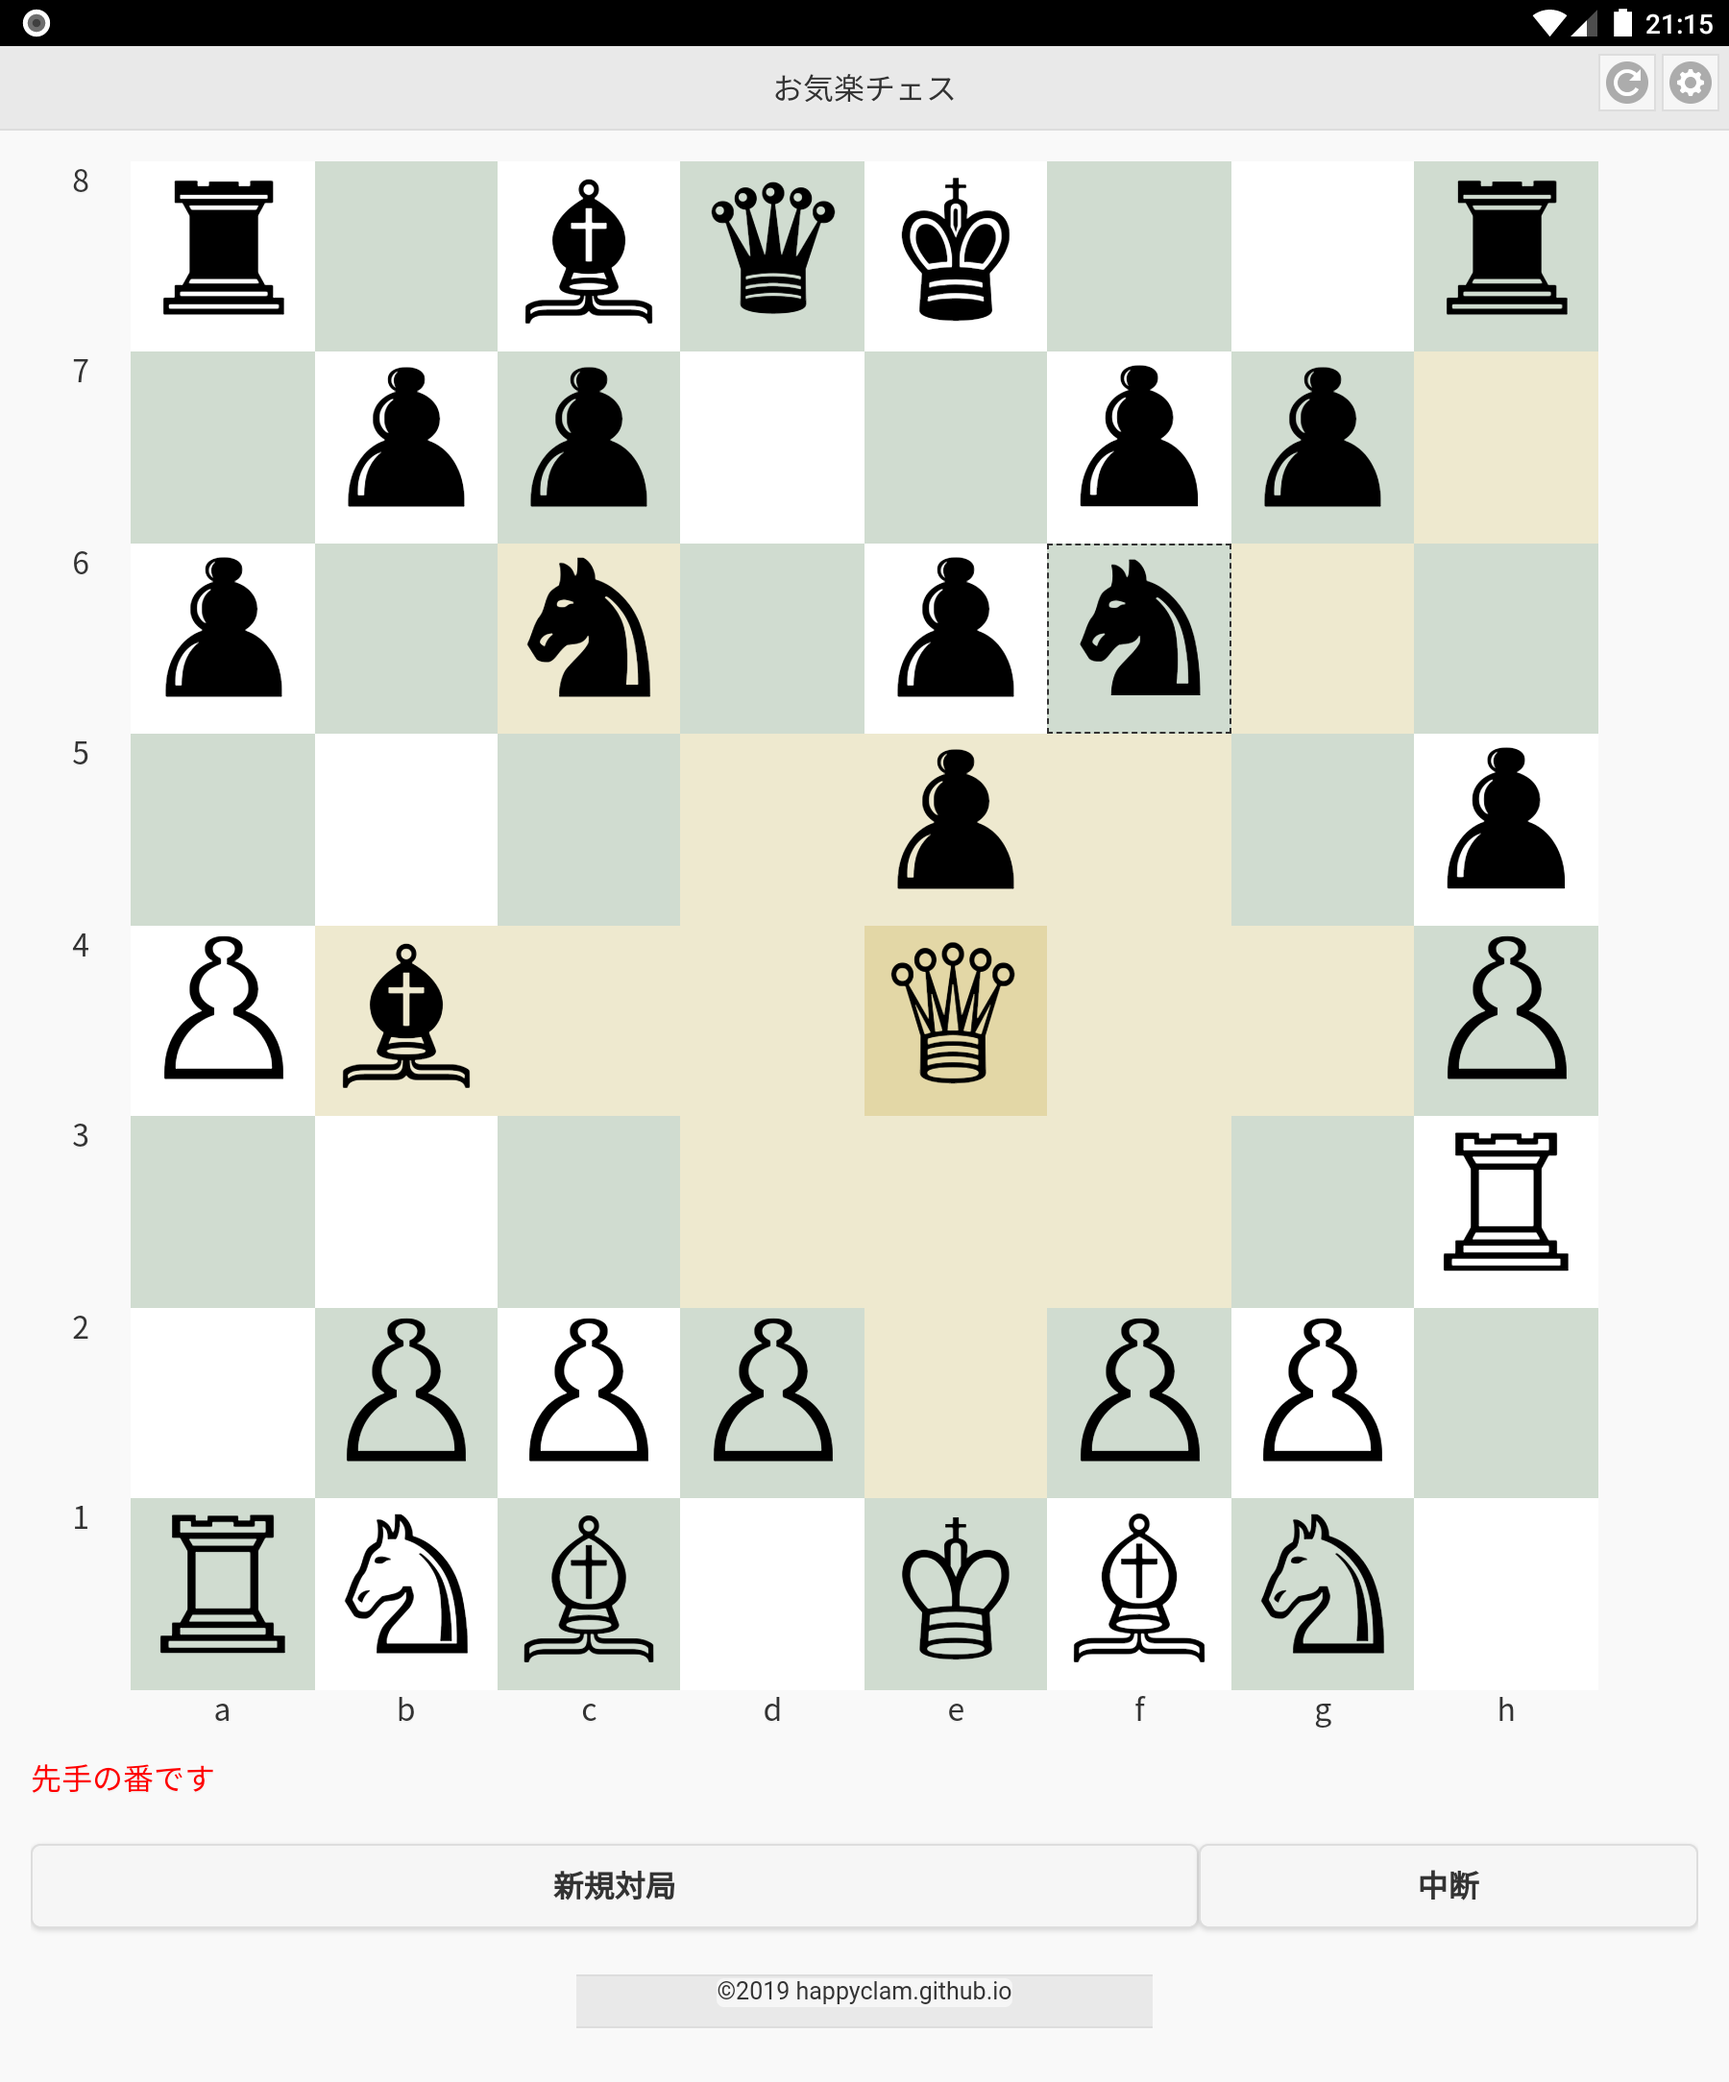
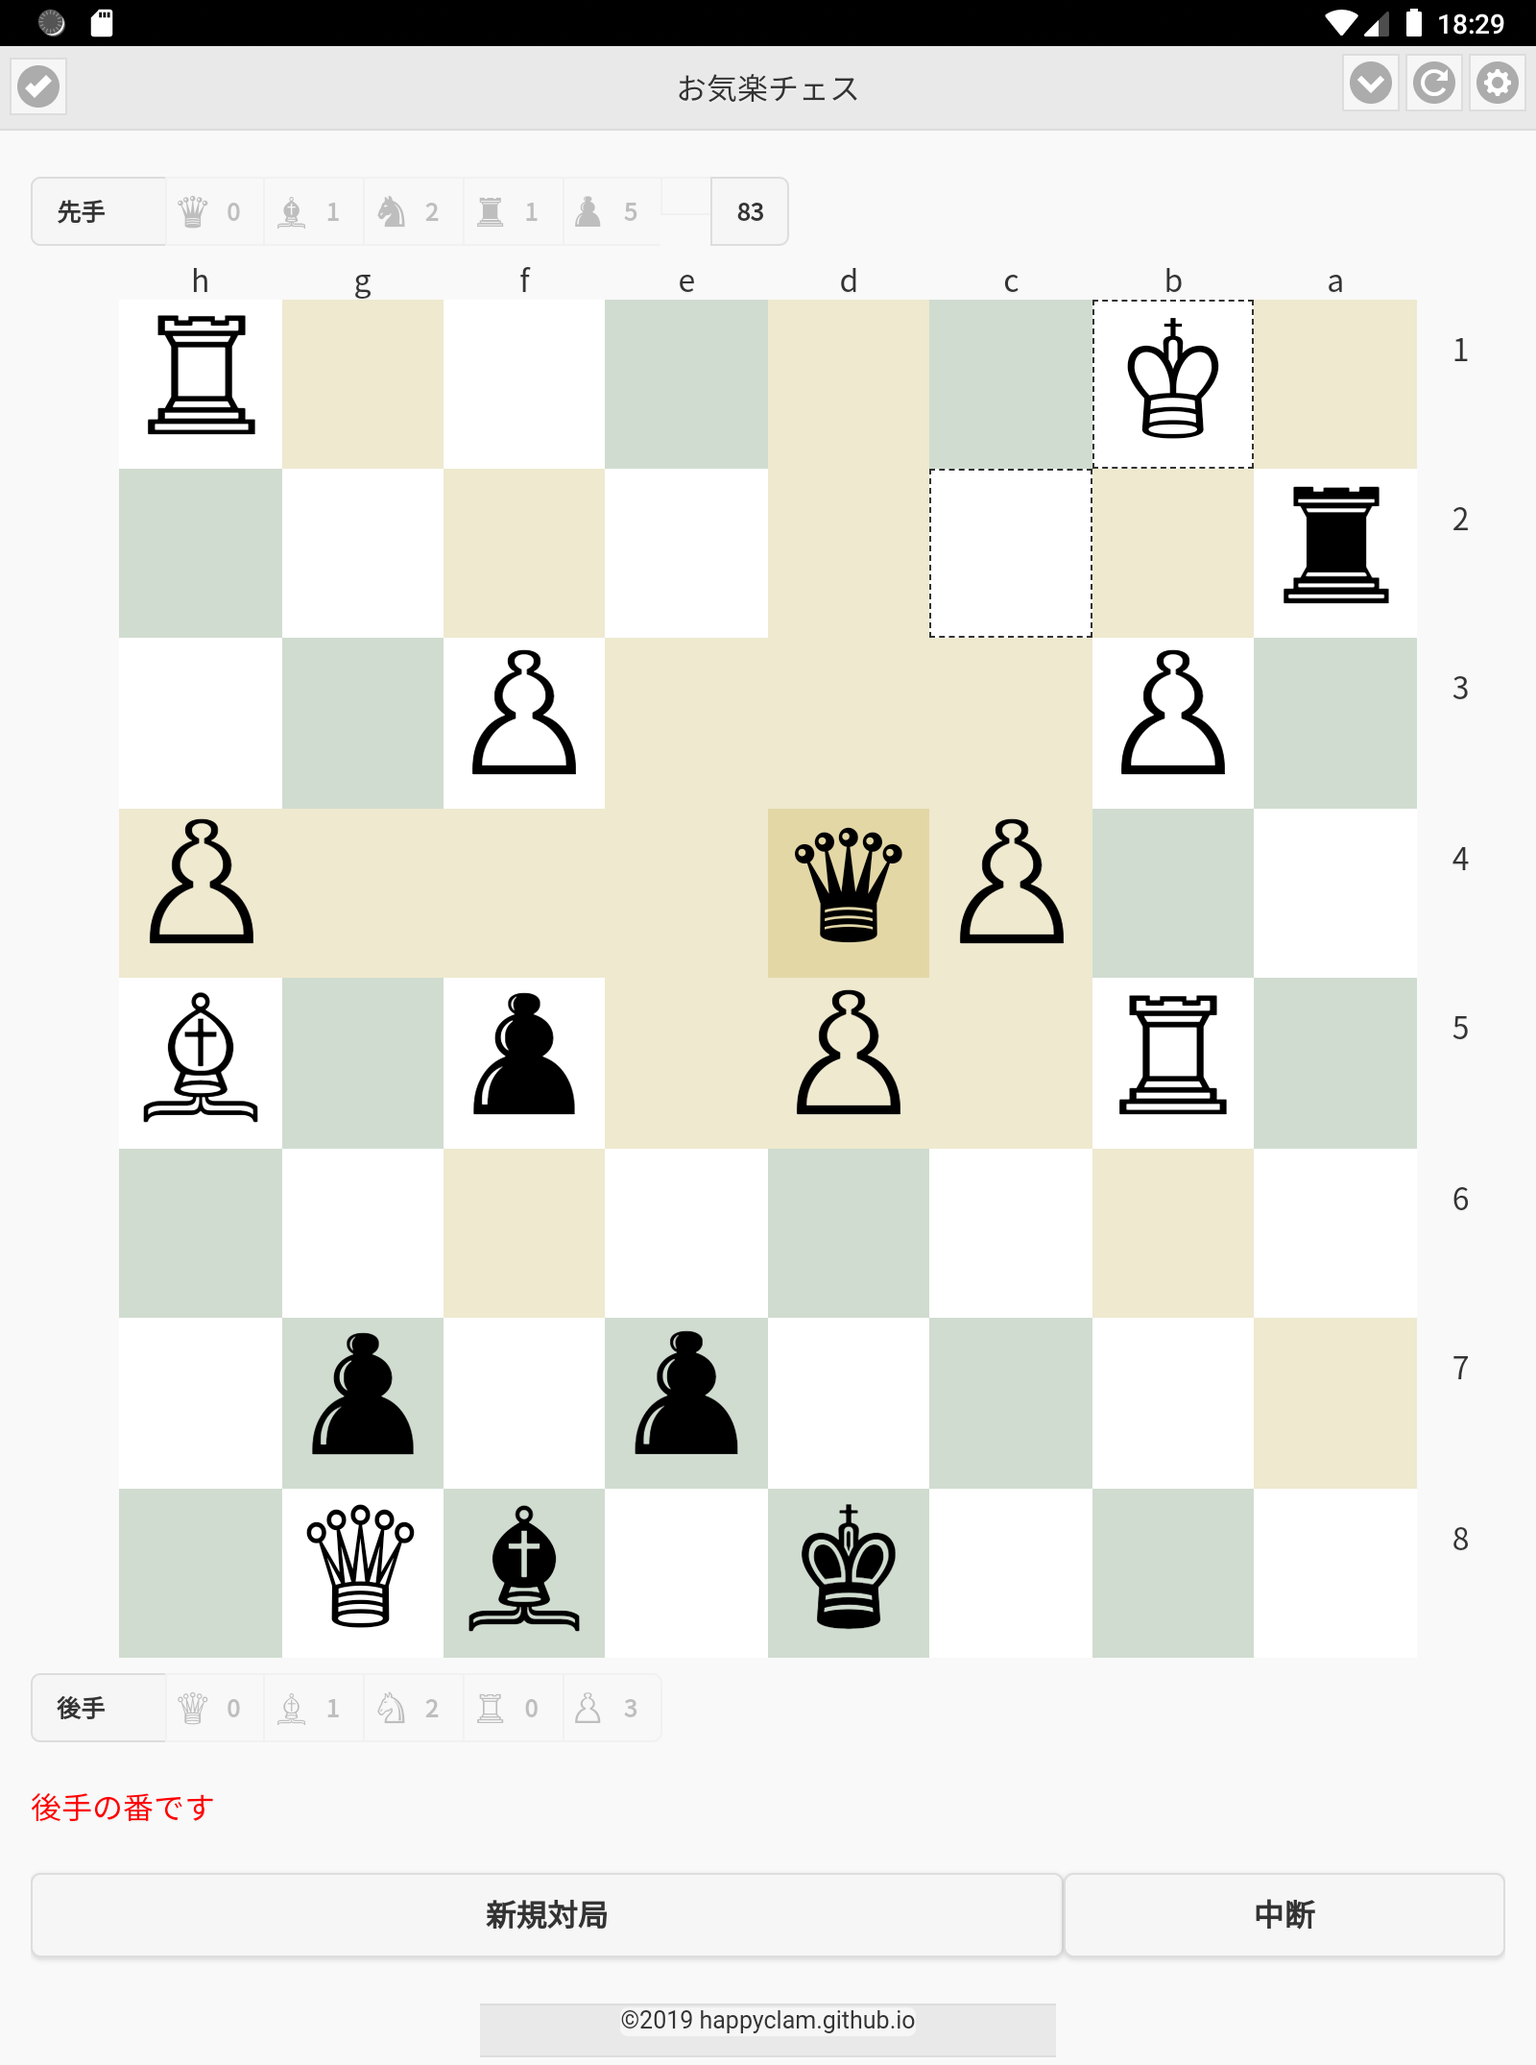
refactor: chessapp.mdの画像差し替え

diff --git a/project/2019-11-16/chessapp.html b/project/2019-11-16/chessapp.html
@@ -270,6 +270,7 @@ MathJax.Hub.Config({
   <li>ゲームを中断して前の局面に戻って再開することも出来ます。</li>
   <li>ゲーム中に歯車のアイコンをタップすると強制的にゲームを中断して設定メニュー画面に移行します。ゲーム盤面に戻って再開ボタンをタップすれば続きからゲームを再開出来ます。</li>
   <li>右上の矢印アイコンをタップすると盤面を回転表示します。</li>
+  <li>右上のキャレット（∧、∨）アイコンをタップすると取った駒の数と手数を表示します。もう一度タップすると非表示にします。端末の画面サイズに合わせてご利用ください。</li>
 </ul>
 
 <h3 id="ａｉレベル">ＡＩレベル</h3>
@@ -321,7 +322,7 @@ MathJax.Hub.Config({
 </div>
 
 <ul>
-  <li>対戦相手にＡＩを選択すると、対戦中に局面の評価値を表示します。先手（White）が有利な場合は正の方向、後手（Black）が有利な場合は負の方向に評価値が変動します。</li>
+  <li>対戦相手にＡＩを選択すると、対戦中に局面の評価値を赤字で表示します。先手（White）が有利な場合は正の方向、後手（Black）が有利な場合は負の方向に評価値が変動します。</li>
 </ul>
 
 <h4 id="評価関数">評価関数</h4>
